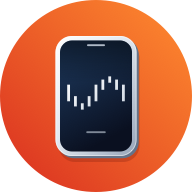
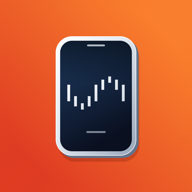
v1.5.13: 同步主仓发布(compose-api + 安装脚本 pin + 文档)

diff --git a/compose-api/api.php b/compose-api/api.php
@@ -95,7 +95,7 @@ declare(strict_types=1);
  */
 
 // 与 package.json 同步；capabilities 报告当前执行的宿主后端版本,不能据此推断容器镜像版本。
-const APP_VERSION = '1.5.12';
+const APP_VERSION = '1.5.13';
 const PROJECTS_DIR = '/boot/config/plugins/compose.manager/projects';
 // 【续 49.2 2026-07-19】key 文件挪到 flash 盘统一路径 — 消灭最后一个 per-user 路径
 // (appdata 目录名因用户/容器名而异,/boot/config 全 unRAID 一致,api.php 由此零参数化)

diff --git a/CHANGELOG.md b/CHANGELOG.md
@@ -2,41 +2,28 @@
 
 All notable changes to this project are documented here. Format follows [Keep a Changelog](https://keepachangelog.com/).
 
-## [TestFlight 2.0.0 (148)] - 2026-11-27
+## [1.5.13] - 2026-11-27
 
 ### Changed
 
-- Added per-server and per-user local snapshots for Player home's Continue Watching and Latest sections, restoring libraries and home content immediately before background revalidation
-- Offline or failed refreshes retain cached home content, and partial failures no longer overwrite the last complete snapshot with incomplete results. Existing artwork caching remains in use; video files, API keys, and media paths are not cached
+- Unified the confirmed orange full-bleed brand artwork across the native app icon, Web favicon and PWA icons, Capacitor icon and splash screens, and the public deployment repository. Native icons retain the standard full-bleed source so iOS applies its continuous rounded mask
+- Continue Watching now shows one card per series, using the series name and poster with the latest resumable episode as the subtitle. Tapping still resumes that episode directly; movies remain individual entries
 
 ### Notes
 
-- Native app only; Web, Docker, and compose-api remain at v1.5.12, with no install-script rerun needed
-- All 946 native XCTest cases pass
+- Coordinated with TestFlight 2.0.0 (149). compose-api only advances `APP_VERSION` to 1.5.13 and adds no host functionality; v1.5.12 hosts can synchronize in place without manually rerunning the install script
+- Full native XCTest 948/948 and Vitest 1951/1951 pass, together with lint and production build checks. Real-device Continue Watching and icon appearance remain subject to user acceptance
 
-## [TestFlight 2.0.0 (147)] - 2026-11-27
+## [TestFlight 2.0.0 (149)] - 2026-11-27
 
 ### Changed
 
-- Consolidated Dashboard refresh into one visible toolbar button while retaining pull-to-refresh and an in-progress indicator
-- Removed the duplicate server-card refresh button and the constantly changing relative timestamp; the last successful update time now appears only when a refresh fails and cached data remains visible
+- Continue Watching collapses multiple episodes from the same series into the most recently played entry. Cards show the series title and poster, retain the episode number and title as secondary text, and continue to resume playback directly
+- Updated the app icon to the confirmed orange design with no white outer corners; iOS applies the native continuous rounded mask
 
 ### Notes
 
-- Native app only; Web, Docker, and compose-api remain at v1.5.12, with no install-script rerun needed
-- All 944 native XCTest cases pass
-
-## [TestFlight 2.0.0 (146)] - 2026-11-27
-
-### Fixed
-
-- Fixed a `0x8BADF00D` watchdog termination that could occur when the app entered the background or the system terminated its process during playback, because VLC destruction blocked the main thread
-- Retired `VLCMediaPlayer` instances now transfer their final reference to a dedicated serial background queue across track changes, source retries, MPEG-TS rebuilds, and player dismissal, without changing background-audio or system-playback behavior
-
-### Notes
-
-- Native app only; Web, Docker, and compose-api remain at v1.5.12, with no install-script rerun needed
-- All 944 native XCTest cases pass. Real iPhone playback, backgrounding, and termination scenarios still require validation with TestFlight 146
+- Coordinated with Web/Docker and compose-api v1.5.13. All 948 native XCTest cases pass; real-device series grouping, direct resume, and icon rendering still require validation
 
 ## [1.5.12] - 2026-11-27
 

diff --git a/CHANGELOG_CN.md b/CHANGELOG_CN.md
@@ -2,41 +2,28 @@
 
 本文件记录项目的所有重要变更,格式参考 [Keep a Changelog](https://keepachangelog.com/)。
 
-## [TestFlight 2.0.0 (148)] - 2026-11-27
+## [1.5.13] - 2026-11-27
 
 ### 变更
 
-- 播放器首页的“继续观看”和“新增内容”新增按服务器与用户隔离的本地快照，进入页签即恢复媒体库与首页内容，再在后台重新验证
-- 断网或刷新失败保留已缓存的首页；部分请求失败不会用残缺结果覆盖上一份完整快照。继续复用现有海报缓存，不缓存影片文件、API Key 或媒体路径
+- 将确认的橙色满底品牌设计统一应用到原生 AppIcon、Web favicon/PWA 图标、Capacitor 图标与启动图，以及公开部署仓。原生图标保留平台要求的满幅源文件，由 iOS 自动应用连续圆角蒙版
+- 继续观看改为每部剧只显示一张卡片，使用剧名和剧集海报，最近可续播单集作为副标题；点击仍直接续播该集，电影保持独立展示
 
 ### 说明
 
-- 仅原生 App 更新，Web、Docker 和 compose-api 仍为 v1.5.12，无需重跑安装脚本
-- 完整原生 XCTest 946/946 通过
+- 与 TestFlight 2.0.0(149) 协调发布。compose-api 本次仅将 `APP_VERSION` 更新为 1.5.13，无新增宿主功能；v1.5.12 宿主可页内同步升级，无需手工重跑安装脚本
+- 完整 XCTest 948/948、Vitest 1951/1951、lint 与生产构建通过；真实设备的继续观看和图标效果仍由用户验收
 
-## [TestFlight 2.0.0 (147)] - 2026-11-27
+## [TestFlight 2.0.0 (149)] - 2026-11-27
 
 ### 变更
 
-- 总览普通刷新收敛为导航栏唯一可见入口，保留下拉刷新，并在刷新期间显示加载状态
-- 移除服务器卡片里的重复刷新按钮和持续跳动的相对更新时间；仅在刷新失败、仍展示旧数据时显示上次成功更新时间
+- 继续观看将同一部剧的多集归并为最近播放的一条，卡片显示剧名与剧集海报，副标题保留集数和集名，点击仍直接续播
+- AppIcon 更新为确认的橙色设计，去除外圈白底，由 iOS 应用原生连续圆角
 
 ### 说明
 
-- 仅原生 App 更新，Web、Docker 和 compose-api 仍为 v1.5.12，无需重跑安装脚本
-- 完整原生 XCTest 944/944 通过
-
-## [TestFlight 2.0.0 (146)] - 2026-11-27
-
-### 修复
-
-- 修复真机播放过程中 App 退到后台或系统结束进程时，可能因 VLC 销毁阻塞主线程而被 `0x8BADF00D` 看门狗强杀的问题
-- 旧 `VLCMediaPlayer` 的最后引用转交专用串行后台队列，覆盖切歌、换源、MPEG-TS 重建和关闭播放页，不改变后台音频与系统播放控制行为
-
-### 说明
-
-- 仅原生 App 更新，Web、Docker 和 compose-api 仍为 v1.5.12，无需重跑安装脚本
-- 完整原生 XCTest 944/944 通过；真实 iPhone 播放、退后台与退出场景仍需在 TestFlight 146 验收
+- 与 Web/Docker、compose-api v1.5.13 协调发布。完整 XCTest 948/948 通过；真实设备剧集聚合、直接续播与图标效果仍需验收
 
 ## [1.5.12] - 2026-11-27
 

diff --git a/README.md b/README.md
@@ -203,9 +203,9 @@ existing installer. The installer downloads the remaining agent files, verifying
 um_install_dir="$(mktemp -d /tmp/unraid-mobile-install.XXXXXX)" \
   && mkdir -p "$um_install_dir/scripts" "$um_install_dir/compose-api" \
   && curl -fsSL -o "$um_install_dir/scripts/bootstrap-host.sh" \
-    https://raw.githubusercontent.com/bear0328/unraid-mobile-compose/v1.5.12/scripts/bootstrap-host.sh \
+    https://raw.githubusercontent.com/bear0328/unraid-mobile-compose/v1.5.13/scripts/bootstrap-host.sh \
   && curl -fsSL -o "$um_install_dir/compose-api/install-compose-api.sh" \
-    https://raw.githubusercontent.com/bear0328/unraid-mobile-compose/v1.5.12/compose-api/install-compose-api.sh \
+    https://raw.githubusercontent.com/bear0328/unraid-mobile-compose/v1.5.13/compose-api/install-compose-api.sh \
   && bash "$um_install_dir/scripts/bootstrap-host.sh"
 ```
 
@@ -263,6 +263,17 @@ docker build -t unraid-mobile .
 ## Changelog
 
 Full history in [CHANGELOG.md](CHANGELOG.md).
+
+### v1.5.13 (2026-11-27)
+
+- Unified the confirmed orange brand artwork across native, Web/PWA, Capacitor splash screens, and the public deployment repository, with platform-native rounded presentation
+- Continue Watching now shows one series card per show with the latest resumable episode, series artwork, and direct resume; movies remain independent
+- Coordinated with TestFlight 2.0.0 (149). compose-api only advances `APP_VERSION` to 1.5.13, with no new host functionality; v1.5.12 hosts can synchronize in place
+
+### TestFlight 2.0.0 (149) (2026-11-27)
+
+- Continue Watching collapses episodes into one card per series, ordered by recent playback. Cards show the series title and poster with episode details underneath, while tapping resumes the latest episode directly
+- Updated the app icon to the confirmed orange design with native iOS continuous rounding. All 948 native XCTest cases pass
 
 ### TestFlight 2.0.0 (148) (2026-11-27)
 

diff --git a/README_CN.md b/README_CN.md
@@ -177,9 +177,9 @@ Web 与原生端支持 Community Applications 搜索、分类、详情、HTTPS `
 um_install_dir="$(mktemp -d /tmp/unraid-mobile-install.XXXXXX)" \
   && mkdir -p "$um_install_dir/scripts" "$um_install_dir/compose-api" \
   && curl -fsSL -o "$um_install_dir/scripts/bootstrap-host.sh" \
-    https://raw.githubusercontent.com/bear0328/unraid-mobile-compose/v1.5.12/scripts/bootstrap-host.sh \
+    https://raw.githubusercontent.com/bear0328/unraid-mobile-compose/v1.5.13/scripts/bootstrap-host.sh \
   && curl -fsSL -o "$um_install_dir/compose-api/install-compose-api.sh" \
-    https://raw.githubusercontent.com/bear0328/unraid-mobile-compose/v1.5.12/compose-api/install-compose-api.sh \
+    https://raw.githubusercontent.com/bear0328/unraid-mobile-compose/v1.5.13/compose-api/install-compose-api.sh \
   && bash "$um_install_dir/scripts/bootstrap-host.sh"
 ```
 
@@ -234,6 +234,17 @@ docker build -t unraid-mobile .
 ## 更新日志
 
 完整历史见 [CHANGELOG_CN.md](CHANGELOG_CN.md)。
+
+### v1.5.13(2026-11-27)
+
+- 将确认的橙色品牌设计统一应用到原生 App、Web/PWA、Capacitor 启动图和公开部署仓，并按各平台原生方式呈现圆角
+- 继续观看改为每部剧一张卡片，保留最近可续播单集，使用剧集海报并支持直接续播；电影保持独立展示
+- 与 TestFlight 2.0.0(149) 协调发布。compose-api 仅将 `APP_VERSION` 更新为 1.5.13，无新增宿主功能；v1.5.12 宿主可页内同步升级
+
+### TestFlight 2.0.0(149)(2026-11-27)
+
+- 继续观看按最近播放顺序将同一部剧归并为一张卡片，显示剧名、剧集海报和单集信息，点击直接续播最近一集
+- AppIcon 更新为确认的橙色设计与 iOS 原生连续圆角；完整 XCTest 948/948 通过
 
 ### TestFlight 2.0.0(148)(2026-11-27)
 
